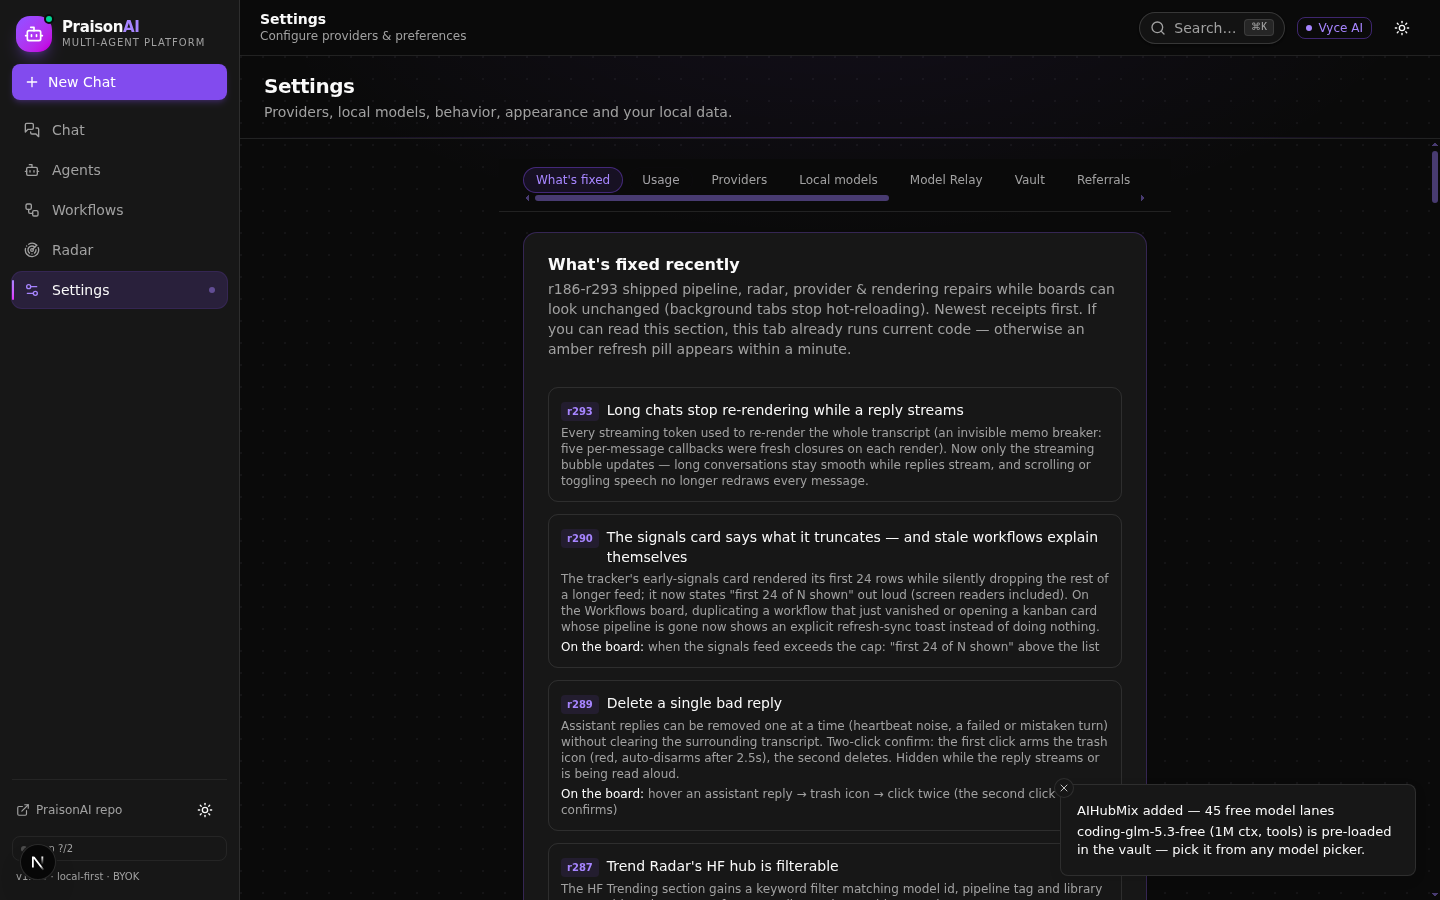
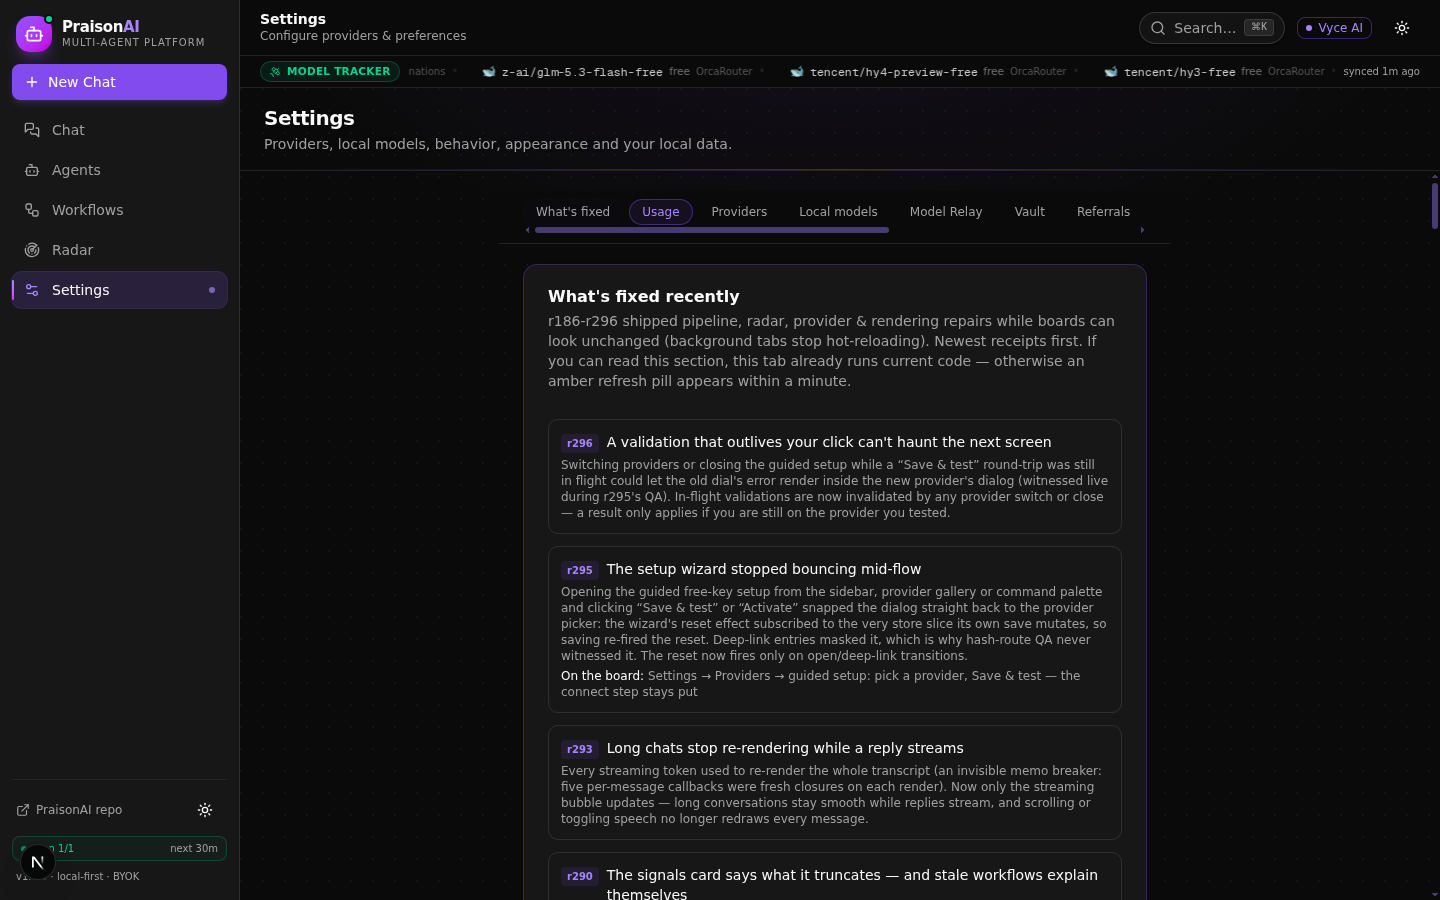
snapshot: 2026-10-06T11:31:36Z auto-backup

diff --git a/src/components/praison/settings/setup-wizard.tsx b/src/components/praison/settings/setup-wizard.tsx
@@ -92,6 +92,9 @@ export function SetupWizard() {
   const [showKey, setShowKey] = React.useState(false);
   const [testing, setTesting] = React.useState(false);
   const [test, setTest] = React.useState<TestResult | null>(null);
+  // r296: invalidation token for in-flight validation dials — see the effect
+  // below and validateAndFinish.
+  const validateRun = React.useRef(0);
 
   const provider = FREE_PROVIDERS.find((p) => p.id === providerId) ?? null;
 
@@ -145,6 +148,14 @@ export function SetupWizard() {
     // Deps intentionally omit settings.providerKeys — see the r295 note above.
   }, [open, deepLinkProviderId]);
 
+  // r296: any provider switch (pick, deep-link, "add another") or close
+  // invalidates an in-flight validation dial — no latest-ref plumbing, the
+  // token bump IS the guard. Witnessed r295: a stale vyce 401 rendered its
+  // error box inside the aihubmix dialog after the user had moved on.
+  React.useEffect(() => {
+    validateRun.current += 1;
+  }, [providerId, open]);
+
   function pickProvider(p: FreeProvider) {
     setProviderId(p.id);
     const entry = settings.providerKeys?.[p.id];
@@ -181,6 +192,10 @@ export function SetupWizard() {
     setTest(null);
     const model = draftModel || p.models[0]?.id;
     const started = performance.now();
+    // r296: a dial that resolves after the user switched providers or closed
+    // the wizard must land NOWHERE — no test state, no auto-save, no activation.
+    const runToken = ++validateRun.current;
+    const stale = () => runToken !== validateRun.current;
     try {
       await runAgentChat({
         provider: "custom",
@@ -190,15 +205,19 @@ export function SetupWizard() {
         maxIterations: 1,
         messages: [{ role: "user", content: "Reply with the single word: OK" }],
       });
+      if (stale()) return;
       const ms = Math.round(performance.now() - started);
       saveEntry(p, { validatedAt: Date.now() });
       setTest({ ok: true, ms });
       update({ provider: "custom", activeProviderId: p.id });
       setStep(3);
     } catch (err) {
+      if (stale()) return;
       setTest({ ok: false, error: err instanceof Error ? err.message : "Unknown error" });
     } finally {
-      setTesting(false);
+      // Only the owning run clears the busy flag — a stale resolution must
+      // not re-enable the button while a NEWER dial is still in flight.
+      if (!stale()) setTesting(false);
     }
   }
 

diff --git a/src/components/praison/settings/whats-fixed.tsx b/src/components/praison/settings/whats-fixed.tsx
@@ -171,6 +171,19 @@ const FIXES: FixNote[] = [
     detail:
       "Every streaming token used to re-render the whole transcript (an invisible memo breaker: five per-message callbacks were fresh closures on each render). Now only the streaming bubble updates — long conversations stay smooth while replies stream, and scrolling or toggling speech no longer redraws every message.",
   },
+  {
+    round: "r295",
+    title: "The setup wizard stopped bouncing mid-flow",
+    detail:
+      "Opening the guided free-key setup from the sidebar, provider gallery or command palette and clicking \u201cSave & test\u201d or \u201cActivate\u201d snapped the dialog straight back to the provider picker: the wizard's reset effect subscribed to the very store slice its own save mutates, so saving re-fired the reset. Deep-link entries masked it, which is why hash-route QA never witnessed it. The reset now fires only on open/deep-link transitions.",
+    lookFor: "Settings \u2192 Providers \u2192 guided setup: pick a provider, Save & test \u2014 the connect step stays put",
+  },
+  {
+    round: "r296",
+    title: "A validation that outlives your click can't haunt the next screen",
+    detail:
+      "Switching providers or closing the guided setup while a \u201cSave & test\u201d round-trip was still in flight could let the old dial's error render inside the new provider's dialog (witnessed live during r295's QA). In-flight validations are now invalidated by any provider switch or close \u2014 a result only applies if you are still on the provider you tested.",
+  },
 ];
 
 // r294: the covered range is DERIVED from FIXES (first → last entry) instead

diff --git a/worklog.md b/worklog.md
@@ -7758,3 +7758,33 @@ Verification result: PASS (static + in-vivo)
 Open risks: pre-existing validateAndFinish stale-error micro-race across provider switches (witnessed this round, cosmetic, unfixed — see Stage Summary); carried: clipboard SUCCESS toast inferred; workflows toasts typed-not-witnessed; r241 markdown external-image CSP note; Chrome Ctrl+1-8 reservation; ZAI abort gap (r251); /api/tracker GET lazy-syncs when stale; git push fork 128 environmental.
 Blockers: none
 Next recommended action: r296 — (1) FIRST read any user report. (2) Verify HEAD lineage (expect the r295 snapshot or successor). (3) Rotate OFF settings/wizard (shipped r294+r295 back-to-back). Pick ONE: (a) the validateAndFinish cancellation guard (capture provider id at call time; drop stale setTest/setStep if the wizard switched providers or closed — small, witnessed, closes the carried micro-race) but only if paired with one more independent improvement so the round isn't wizard-heavy; (b) a docs pass or a small feature on a low-traffic surface (radar-view, shell.tsx, usage-dashboard are all fair); (c) perf or error-handling on a NON-API surface. (4) Standing: qa:tsc + CANONICAL bun run lint every code round; worklog append BEFORE snapshot; SMALL commands; Radix triggers need pointerdown/focus (r287); Glob before Read (LS fallback); /api/tracker GET lazy-syncs when stale; suites carry their own failure DIAGs; eslint covers scripts/*.mjs — no ternary-statement asserts in new suites (keep 0/33).
+
+## r296 — validateAndFinish cancellation guard (stale-dial cross-talk killed, W6 witnessed in-vivo) + r295/r296 receipts appended, receipts suites 4/4+9/9 prove the evergreen append (2026-10-06, Job 424432)
+
+Task ID: r296
+Agent: main (platform dev agent)
+Task: Per r295 handoff option (a) — the validateAndFinish cancellation guard (witnessed-carried micro-race), PAIRED per the handoff's condition with an independent improvement: two receipts appended to whats-fixed (r295's fix documented for users + this round's guard).
+
+Work Log:
+- STARTUP: no user report. Health 200 in 13.7s (cold compile — first probe of the hour compiles the root; the app was never down). HEAD b8eb119ec = r295 snapshot ✓, no newer-HEAD this time.
+- SHIPPED 1 — cancellation guard in setup-wizard validateAndFinish: a `validateRun` ref token captured at dial start; a dedicated effect bumps it on `[providerId, open]` (any pick, deep-link, "add another", close, or reopen). On resolution (success OR failure), a stale token drops EVERYTHING — no setTest, no auto-save, no activation, no setStep — and only the owning run clears the `testing` flag in finally (a stale resolution must not re-enable the button while a newer dial is in flight). Note: the saveEntry that fires synchronously ON CLICK (pre-dial) is unchanged — only post-dial landing is guarded; semantics documented in-code.
+- SHIPPED 2 — receipts: r295 ("The setup wizard stopped bouncing mid-flow", with the deep-link-masking explanation and a lookFor) and r296 ("A validation that outlives your click can't haunt the next screen"). Range label auto-derived to r186-r296. Panel now at 23 receipts.
+- SUITE: cdp-qa-wizard-flow.mjs extended with W6 — the guard witness: fire a fresh dial, deep-link-switch providers ~300ms in, then poll 8s requiring the stale "Invalid API key" to NEVER render in the switched (AIHubMix) context. Deterministic outcomes: fast dial → legit error cleared by the switch's reset; slow dial → guard drops it; either path PASS with the guard, FAIL without (the r295-witnessed case).
+- Verification: npx tsc --noEmit exit 0; canonical bun run lint 0 errors / 33 baseline warnings; cdp-qa-wizard-flow.mjs 6/6 IN-VIVO (W6 passed with the guard live); boot gate 7/7; whatsfixed-order 4/4 (count=23, first=r296, order [296,295,293,290,…,186], derived range 186-296) and receipts-refresh 9/9 — the r294 evergreen promise ("appending is zero-suite-churn") survived its first REAL append unmodified.
+- Budget: 8 tool batches — comfortable. No deviations, no theatre.
+
+Stage Summary:
+- The last carried wizard defect is closed: a validation dial that outlives the user's context now lands nowhere. The guard is witnessed in-vivo by W6, not just reasoned.
+- User-facing: the What's-fixed panel documents both wizard fixes (r295+r296) with the derived range auto-updating; the receipts evergreening is validated by a real append, not just by design.
+- The wizard surface is now thoroughly hardened (r255 Enter flow, r295 reset effect, r296 dial guard) — future rounds should treat it as done unless a user report arrives.
+
+Round Handoff:
+Round ID: r297
+Task owner: main (platform dev agent)
+Scope completed: validateAndFinish cancellation guard (token + invalidation effect, stale = land nowhere), W6 guard witness in the wizard suite (6/6), two receipts appended (23 total, range r186-r296 derived); tsc 0 + lint 0/33 + boot gate 7/7 + receipts suites 4/4 & 9/9.
+User-visible changes: guided setup validations can no longer leak results/errors across provider switches or after close; What's fixed recently documents r295+r296.
+Verification steps: node scripts/cdp-qa-wizard-flow.mjs (6/6); node scripts/cdp-qa-boot-gate.mjs (7/7); node scripts/cdp-qa-whatsfixed-order.mjs (4/4); node scripts/cdp-qa-receipts-refresh.mjs (9/9); tsc (0); bun run lint (0/33).
+Verification result: PASS (static + in-vivo)
+Open risks: carried: clipboard SUCCESS toast inferred; workflows toasts typed-not-witnessed; r241 markdown external-image CSP note; Chrome Ctrl+1-8 reservation; ZAI abort gap (r251); /api/tracker GET lazy-syncs when stale; git push fork 128 environmental. New: none this round.
+Blockers: none
+Next recommended action: r297 — (1) FIRST read any user report. (2) Verify HEAD lineage (expect the r296 snapshot or successor). (3) The settings/wizard surface is hardened and freshly receipted — rotate OFF it. Pick ONE: (a) a small user-facing feature or polish on a genuinely low-traffic surface (usage-dashboard, shell.tsx, radar-view — deep-read first); (b) a docs pass (LOCAL_AUTOMATION.md drift fact-check vs the r149 stamp is the long-standing candidate); (c) perf or error-handling on a NON-API surface. (4) Standing: qa:tsc + CANONICAL bun run lint every code round; worklog append BEFORE snapshot; SMALL commands; Radix triggers need pointerdown/focus (r287); Glob before Read (LS fallback); /api/tracker GET lazy-syncs when stale; suites carry their own failure DIAGs; eslint covers scripts/*.mjs — no ternary-statement asserts in new suites (keep 0/33); append receipts when shipping user-visible changes (zero suite churn, proven again this round).
